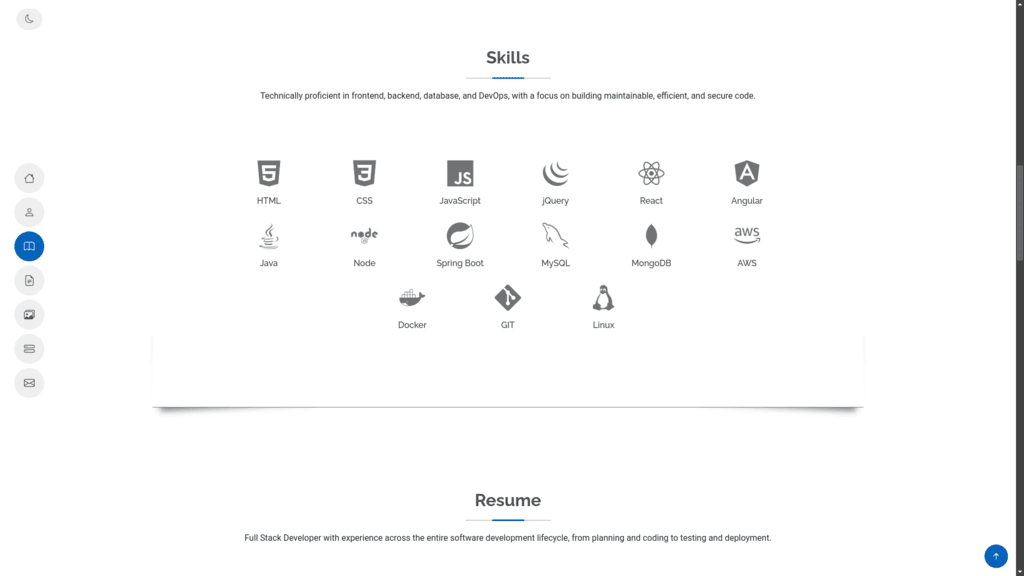
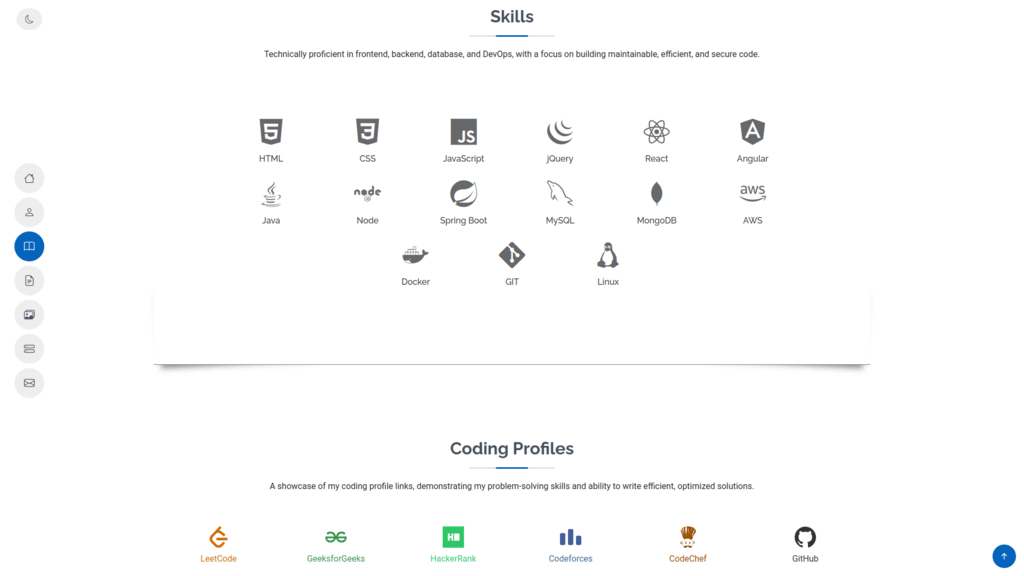
fixed responsiveness and more project images

diff --git a/src/components/home/CodingProfiles.jsx b/src/components/home/CodingProfiles.jsx
@@ -4,7 +4,7 @@ import { SiLeetcode, SiGeeksforgeeks, SiHackerrank, SiCodeforces, SiCodechef, Si
 
 const profiles = [
     { link: links.leetcode, icon: <SiLeetcode size={40} />, name: "LeetCode", color: "#d16c06" },
-    { link: links.gfg, icon: <SiGeeksforgeeks size={45} />, name: "GeeksforGeeks", color: "#35914c" },
+    { link: links.gfg, icon: <SiGeeksforgeeks size={40} />, name: "GeeksforGeeks", color: "#35914c" },
     { link: links.hackerrank, icon: <SiHackerrank size={40} />, name: "HackerRank", color: "#2EC866" },
     { link: links.codeforces, icon: <SiCodeforces size={40} />, name: "Codeforces", color: "#445f9d" },
     { link: links.codechef, icon: <SiCodechef size={40} />, name: "CodeChef", color: { light: "#964B00", dark: "#B64B00" } },
@@ -12,7 +12,7 @@ const profiles = [
 ];
 
 const CodingProfiles = () => {
-    const { isDarkMode } = useTheme()
+    const { isDarkMode } = useTheme();
     return (
         <section id="codeprofile" className="codeprofile section">
             <div className="container section-title" data-aos="fade-up">
@@ -21,19 +21,23 @@ const CodingProfiles = () => {
             </div>
 
             <div className="container">
-                <div className="text-center" data-aos="fade-up" data-aos-delay="100">
+                <div className="row justify-content-center">
                     {profiles.map(({ link, icon, name, color }) => (
-                        <article key={name} className="d-inline-block m-3">
+                        <div
+                            data-aos="fade-up"
+                            data-aos-delay="100"
+                            className="col-4 col-sm-4 col-md-2 my-1 text-center"
+                            key={name}>
                             <a
                                 href={link}
-                                title={name + ' ' + "Profile"}
-                                className="d-inline-block"
+                                title={`${name} Profile`}
                                 style={{ color: isDarkMode ? color.dark || color : color.light || color }}
-                                target="_blank" rel="noopener noreferrer">
+                                target="_blank"
+                                rel="noopener noreferrer">
                                 {icon}
                                 <p className="mt-2">{name}</p>
                             </a>
-                        </article>
+                        </div>
                     ))}
                 </div>
             </div>
@@ -42,3 +46,4 @@ const CodingProfiles = () => {
 };
 
 export default CodingProfiles;
+

diff --git a/src/constants/portfolioData.js b/src/constants/portfolioData.js
@@ -23,6 +23,7 @@ export const portfolioDetailData = {
             { name: 'MySQL', icon: 'devicon-mysql-plain' },
             { name: 'Hibernate', icon: 'devicon-hibernate-plain' },
             { name: 'Ant Design', icon: 'devicon-antdesign-plain' },
+            { name: 'CSS3', icon: 'devicon-css3-plain' },
         ],
         projectDate: 'November 2024 - February 2024',
         // projectURL: 'https://www.example.com',
@@ -50,19 +51,22 @@ export const portfolioDetailData = {
             'Developed server-side logic with Node.js and Express.js, crafted stats card with JavaScript and CSS.',
             'The stats card dynamically updates based on a user’s GitHub activity and problem-solving contributions.',
         ],
-        projectImages: [images["gfgcard"], images["gfgcard"], images["gfgcard"], images["gfgcard"]]
+        projectImages: [images["gfgcard"], images["gfgcard1"], images["gfgcard"], images["gfgcard1"]]
     },
     portfolio: {
         techUsed: [
             { name: 'React JS', icon: 'devicon-react-original' },
+            { name: 'npm', icon: 'devicon-npm-original-wordmark' },
+            { name: 'Bootstrap', icon: 'devicon-bootstrap-plain' },
+            { name: 'CSS3', icon: 'devicon-css3-plain' },
         ],
         projectDate: 'October 2024 - Present',
-        projectURL: 'https://nikhilpal2705.vercel.app/',
+        projectURL: 'https://suryavanshi.vercel.app/',
         sourceCodeURL: 'https://github.com/nikhilpal2705/nikhilpal2705.github.io',
         projectDescription: [
             'A portfolio application with an intuitive interface.',
             'Designed and implemented interactive, responsive user interfaces using React.js for intuitive product management.',
         ],
-        projectImages: [images["portfolio"], images["portfolio1"], images["portfolio2"], images["portfolio3"], images["portfolio4"]]
+        projectImages: [images["portfolio"], images["portfolio1"], images["portfolio2"], images["portfolio3"], images["portfolio4"], images["portfolio5"], images["portfolio6"], images["portfolio7"]]
     }
 };

diff --git a/src/components/home/Skills.jsx b/src/components/home/Skills.jsx
@@ -47,7 +47,7 @@ import PropTypes from 'prop-types';
 
 const SkillItem = ({ label, svg, iconClass }) => {
   return (
-    <div data-aos="fade-up" data-aos-delay="100" className="skill-item col-3 col-sm-2 my-3 mx-auto" style={{ display: 'inline', textAlign: 'center' }}>
+    <div data-aos="fade-up" data-aos-delay="100" className="skill-item col-4 col-sm-4 col-md-2 my-2 text-center">
       {svg ? <svg aria-hidden="true" focusable="false" data-icon={label} role="i" xmlns="http://www.w3.org/2000/svg" viewBox="0 0 384 512"><path fill="currentcolor" d={svg} /></svg>
         : <i className={`${iconClass} mx-auto my-auto`}></i>}
       <h6 className="mt-2">{label}</h6>
@@ -72,7 +72,7 @@ const Skills = () => {
       </div>
 
       <div className="container">
-        <div className="row d-flex justify-content-center skills-info">
+        <div className="row justify-content-center skills-info">
           {[...skillsData.skillsLeft, ...skillsData.skillsRight].map((item) =>
             <SkillItem key={item.name} iconClass={item.class} svg={item.svg} label={item.name} />
           )}
